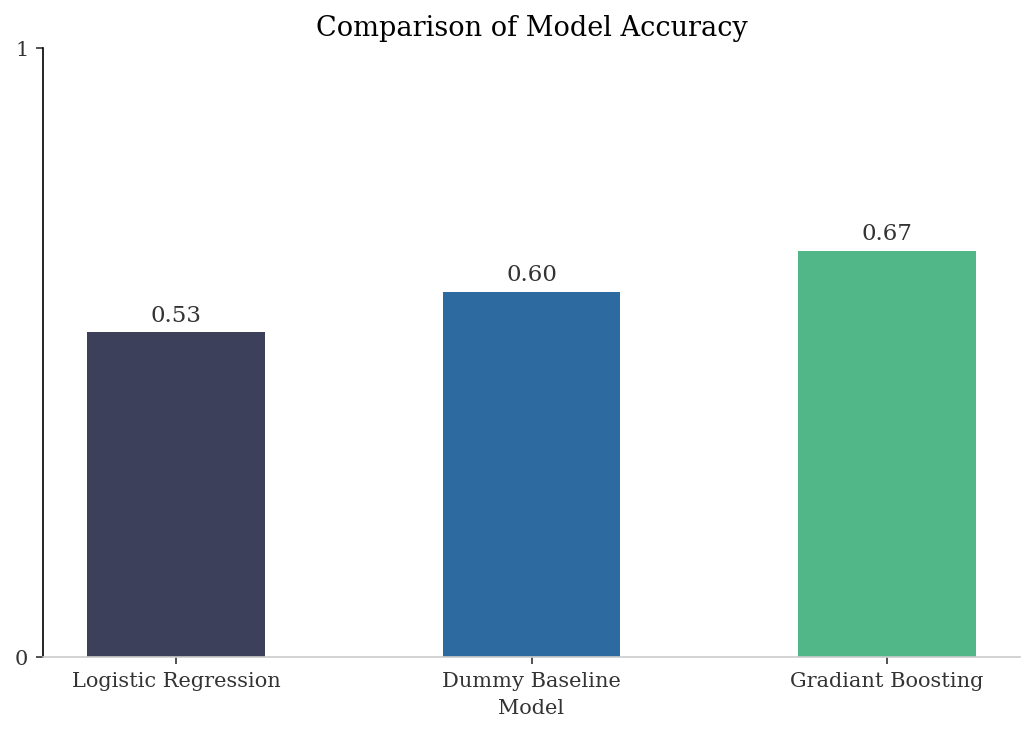
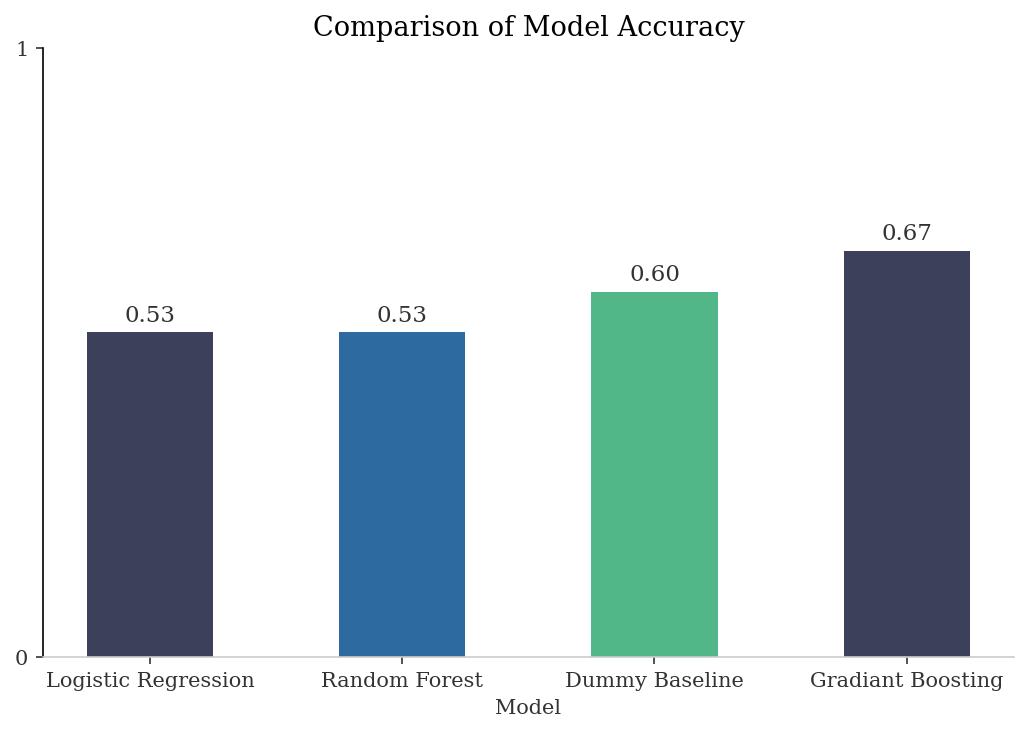
fixed model accuracy charts

diff --git a/src/classvisuals.py b/src/classvisuals.py
@@ -103,10 +103,10 @@ def plot_pr_curve(preds):
 #accuracy bar graph 
 
 def plot_accuracy_comparison(results):
-    # Use Gradient Boosting as "Final Model" since it's the best
+
     display = results.copy()
     display.loc[display["model"] == "Gradient Boosting", "model"] = "Gradiant Boosting"
-    display = display[display["model"].isin(["Dummy Baseline", "Logistic Regression", "Gradiant Boosting"])]
+    display = display[display["model"].isin(["Dummy Baseline", "Logistic Regression", "Gradiant Boosting", "Random Forest"])]
     display = display.sort_values("accuracy").reset_index(drop=True)
 
     fig, ax = plt.subplots(figsize=(7, 5))
@@ -114,7 +114,7 @@ def plot_accuracy_comparison(results):
 
     bars = ax.bar(display["model"], display["accuracy"], color=colors, width=0.5)
 
-    # Values on top, no y-axis
+    # Values on top
     for bar, val in zip(bars, display["accuracy"]):
         ax.text(bar.get_x() + bar.get_width() / 2,
                 bar.get_height() + 0.01,
